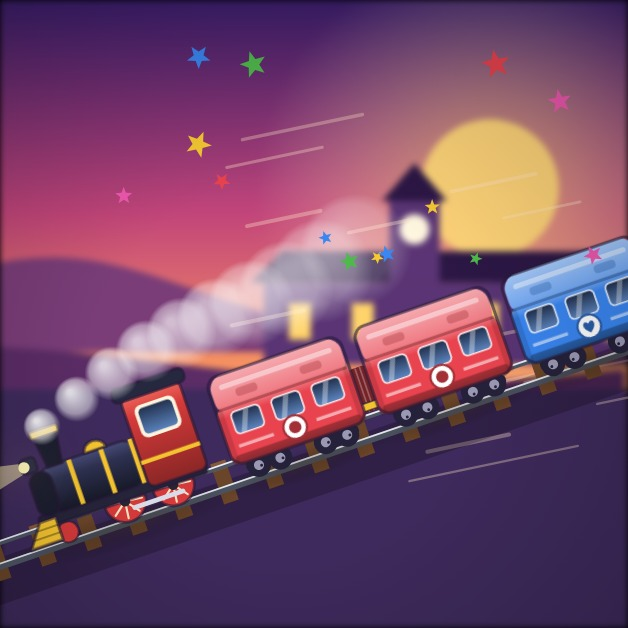
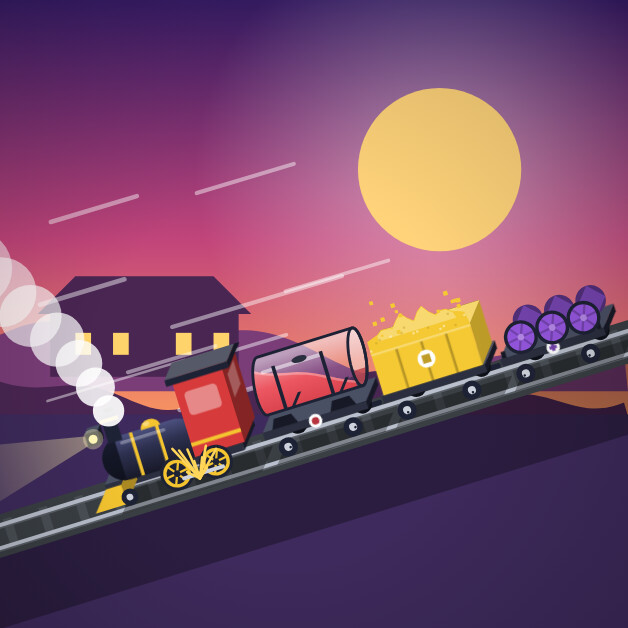
Thumb v2 com as pecas quase 3D e build 1.1.0
- tools/thumb.html: locomotiva arrancando em diagonal com tanque de liquido
  jogado para tras, areia voando e barris; por do sol (opcao b) para
  contrastar com o menta da Poki; 1256 e 628 em PNG e JPG
- prints da build nos tamanhos de iframe da Poki

Claude-Session: https://claude.ai/code/session_011UVCiVifh6VhRQPdrHgR26

diff --git a/tools/thumb.html b/tools/thumb.html
@@ -3,12 +3,13 @@
 <style>html,body{margin:0;overflow:hidden;background:#000}canvas{display:block;width:100vw;height:100vh}</style></head>
 <body><canvas id="c"></canvas>
 <script type="module">
-// Thumb da Poki desenhada com as pecas do proprio jogo.
-// Regras (developers.poki.com/guide/game-thumbnail, anotadas no planet.io):
-// 1:1, sangrada, sem texto, um objeto principal, sugerir movimento,
-// contraste com o fundo #83FFE7 do site. ?opcao=a|b|c  (tamanho = janela)
-import { desenharVagao, desenharLoco, desenharSanfona, desenharSombra, pontaChamine, PINTURAS, caminhoRet } from '../src/render/pecas.js';
-import { TEMAS, misturar } from '../src/render/tema.js';
+// Thumb da Poki desenhada com as pecas do proprio jogo (quase 3D, cargas com
+// fisica congelada no meio do arranque). Regras (developers.poki.com/guide/
+// game-thumbnail): 1:1, sangrada, sem texto, um objeto principal, sugerir
+// movimento, contraste com o fundo #83FFE7 do site. ?opcao=a|b|c (tamanho = janela)
+import { desenharVagao, desenharLoco, desenharSanfona, desenharEngate, desenharSombra, PINTURAS, caminhoRet } from '../src/render/pecas.js';
+import { TEMAS } from '../src/render/tema.js';
+import { criarCarga } from '../src/render/fisica.js';
 import { criarRng } from '../src/core/rng.js';
 
 const q = new URLSearchParams(location.search);
@@ -19,120 +20,96 @@ cv.width = S; cv.height = S;
 const ctx = cv.getContext('2d');
 const r = criarRng(42);
 const CEUS = {
-  a: { ceu: ['#4FA9EE', '#9AD6FA', '#DDF2FB'], morro: ['#9ED39A', '#74BE6C'], chao: '#6FB85B', tema: TEMAS.dia, sol: 'rgba(255,250,215,0.95)', predio: '#F3E7D3', telhado: '#C9533B', janela: '#4F72A8' },
-  b: { ceu: ['#3B1E6E', '#C2457A', '#FF9E5E'], morro: ['#7A3D78', '#5B2C66'], chao: '#3E2A5C', tema: TEMAS.dia, sol: 'rgba(255,214,120,0.95)', predio: '#5A3474', telhado: '#2C1745', janela: '#FFD36B' },
-  c: { ceu: ['#090B2A', '#22195A', '#4A2C7A'], morro: ['#261F55', '#1A163F'], chao: '#161D3A', tema: TEMAS.noite, sol: 'rgba(255,244,214,0.95)', predio: '#3E3870', telhado: '#5A2471', janela: '#FFD36B' },
+  a: { ceu: ['#4C9FE6', '#8FCBF2', '#DCEFF8'], morros: ['#A9D9AE', '#6DB873'], chao: '#79B86A', tema: TEMAS.campina, sol: '#FFE68A' },
+  b: { ceu: ['#3B1E6E', '#C2457A', '#FF9E5E'], morros: ['#7A3D78', '#4A2653'], chao: '#3E2A5C', tema: TEMAS.campina, sol: '#FFD37A' },
+  c: { ceu: ['#120F33', '#2B1E5C', '#5B3B7C'], morros: ['#352C62', '#221C48'], chao: '#1E2446', tema: TEMAS.festa, sol: '#FFF1C4' },
 };
 const K = CEUS[opcao];
+const tema = K.tema;
 
-// ---- fundo (desfocado: sensacao de velocidade)
-const fundo = document.createElement('canvas');
-fundo.width = S; fundo.height = S;
-const g = fundo.getContext('2d');
-let gr = g.createLinearGradient(0, 0, 0, S * 0.62);
+// ---- ceu, astro, morros
+let gr = ctx.createLinearGradient(0, 0, 0, S * 0.7);
 gr.addColorStop(0, K.ceu[0]); gr.addColorStop(0.55, K.ceu[1]); gr.addColorStop(1, K.ceu[2]);
-g.fillStyle = gr; g.fillRect(0, 0, S, S);
-// sol ou lua
-const sx = S * 0.78, sy = S * 0.3, sr = S * 0.11;
-const halo = g.createRadialGradient(sx, sy, sr * 0.5, sx, sy, sr * 3.4);
-halo.addColorStop(0, K.sol.replace('0.95', '0.55')); halo.addColorStop(1, 'rgba(255,240,200,0)');
-g.fillStyle = halo; g.fillRect(0, 0, S, S);
-g.fillStyle = K.sol; g.beginPath(); g.arc(sx, sy, sr, 0, Math.PI * 2); g.fill();
-if (opcao === 'c') {
-  for (let i = 0; i < 160; i++) { g.globalAlpha = 0.3 + r() * 0.7; g.fillStyle = '#fff'; const s = r() < 0.1 ? 3 : 1.6; g.fillRect(r() * S, r() * S * 0.55, s, s); }
-  g.globalAlpha = 1;
+ctx.fillStyle = gr; ctx.fillRect(0, 0, S, S);
+if (opcao === 'c') { for (let i = 0; i < 140; i++) { ctx.globalAlpha = 0.3 + r() * 0.7; ctx.fillStyle = '#fff'; const s = r() < 0.1 ? 3 : 1.6; ctx.fillRect(r() * S, r() * S * 0.5, s, s); } ctx.globalAlpha = 1; }
+const sx = S * 0.7, sy = S * 0.27, sr = S * 0.13;
+const halo = ctx.createRadialGradient(sx, sy, sr, sx, sy, sr * 3);
+halo.addColorStop(0, 'rgba(255,255,255,0.3)'); halo.addColorStop(1, 'rgba(255,255,255,0)');
+ctx.fillStyle = halo; ctx.fillRect(0, 0, S, S);
+ctx.fillStyle = K.sol; ctx.beginPath(); ctx.arc(sx, sy, sr, 0, Math.PI * 2); ctx.fill();
+function morros(y0, cor, alt, fase, freq) {
+  ctx.fillStyle = cor; ctx.beginPath(); ctx.moveTo(0, y0 + 2);
+  for (let x = 0; x <= S; x += 6) { const t = x / S; ctx.lineTo(x, y0 - alt * (0.55 + 0.3 * Math.sin(t * Math.PI * freq + fase) + 0.15 * Math.sin(t * Math.PI * freq * 2.7 + fase * 2))); }
+  ctx.lineTo(S, y0 + 2); ctx.closePath(); ctx.fill();
 }
-if (opcao === 'a') {
-  g.fillStyle = '#fff';
-  for (const [x, y, s] of [[0.18, 0.16, 0.07], [0.5, 0.1, 0.05], [0.9, 0.5, 0.06]]) {
-    for (const [dx, dy, rr] of [[-0.9, 0.1, 0.55], [-0.3, -0.25, 0.75], [0.45, -0.05, 0.62], [1, 0.2, 0.45]]) { g.beginPath(); g.arc((x + dx * s) * S, (y + dy * s) * S, rr * s * S, 0, Math.PI * 2); g.fill(); }
-  }
-}
-// estacao ao fundo (silhueta com relogio)
-const by = S * 0.56;
-g.fillStyle = K.morro[0];
-g.beginPath(); g.moveTo(0, by);
-for (let x = 0; x <= S; x += 8) g.lineTo(x, by - S * (0.1 + 0.05 * Math.sin(x / S * 7 + 1)));
-g.lineTo(S, by); g.closePath(); g.fill();
-const ex0 = S * 0.42, ex1 = S * 1.05, ey = by + S * 0.02, eh = S * 0.13;
-g.fillStyle = K.predio; g.fillRect(ex0, ey - eh, ex1 - ex0, eh);
-g.fillStyle = K.telhado;
-g.beginPath(); g.moveTo(ex0 - S * 0.02, ey - eh); g.lineTo(ex0 + S * 0.03, ey - eh - S * 0.05); g.lineTo(ex1, ey - eh - S * 0.05); g.lineTo(ex1, ey - eh); g.closePath(); g.fill();
-const tx = S * 0.66, tw = S * 0.08;
-g.fillStyle = K.predio; g.fillRect(tx - tw / 2, ey - eh - S * 0.13, tw, S * 0.13);
-g.fillStyle = K.telhado;
-g.beginPath(); g.moveTo(tx - tw * 0.65, ey - eh - S * 0.13); g.lineTo(tx, ey - eh - S * 0.19); g.lineTo(tx + tw * 0.65, ey - eh - S * 0.13); g.closePath(); g.fill();
-g.fillStyle = '#FFF6E0'; g.beginPath(); g.arc(tx, ey - eh - S * 0.085, tw * 0.3, 0, Math.PI * 2); g.fill();
-g.fillStyle = K.janela;
-for (let i = 0; i < 6; i++) { const jx = ex0 + S * 0.04 + i * S * 0.1; if (Math.abs(jx - tx) < tw) continue; g.fillRect(jx, ey - eh * 0.75, S * 0.035, eh * 0.45); }
-g.fillStyle = K.morro[1];
-g.beginPath(); g.moveTo(0, S); g.lineTo(0, by + S * 0.02);
-for (let x = 0; x <= S; x += 8) g.lineTo(x, by + S * 0.02 - S * 0.03 * Math.sin(x / S * 4 + 2));
-g.lineTo(S, S); g.closePath(); g.fill();
-g.fillStyle = K.chao; g.fillRect(0, S * 0.62, S, S);
-ctx.filter = 'blur(' + Math.round(S * 0.004) + 'px)';
-ctx.drawImage(fundo, 0, 0);
-ctx.filter = 'none';
+morros(S * 0.62, K.morros[0], S * 0.12, 0.3, 2.0);
+// estacao em silhueta no morro de tras
+ctx.fillStyle = K.morros[1];
+ctx.fillRect(S * 0.08, S * 0.5, S * 0.3, S * 0.1);
+ctx.beginPath(); ctx.moveTo(S * 0.06, S * 0.5); ctx.lineTo(S * 0.12, S * 0.44); ctx.lineTo(S * 0.34, S * 0.44); ctx.lineTo(S * 0.4, S * 0.5); ctx.closePath(); ctx.fill();
+ctx.fillStyle = opcao === 'a' ? '#F3EBDD' : '#FFD36B';
+for (const q of [0.12, 0.18, 0.28, 0.34]) ctx.fillRect(S * q, S * 0.53, S * 0.025, S * 0.035);
+morros(S * 0.66, K.morros[1], S * 0.07, 1.9, 3.2);
+ctx.fillStyle = K.chao; ctx.fillRect(0, S * 0.66, S, S);
 
 // ---- linhas de velocidade
-ctx.strokeStyle = opcao === 'a' ? 'rgba(255,255,255,0.55)' : 'rgba(255,230,200,0.35)';
+ctx.strokeStyle = 'rgba(255,255,255,0.45)';
 ctx.lineCap = 'round';
-for (let i = 0; i < 16; i++) {
-  const y = S * (0.2 + r() * 0.6), x = S * (0.35 + r() * 0.7), w = S * (0.08 + r() * 0.2);
-  ctx.lineWidth = S * (0.003 + r() * 0.004);
-  ctx.beginPath(); ctx.moveTo(x, y); ctx.lineTo(x + w, y - w * 0.21); ctx.stroke();
+for (let i = 0; i < 9; i++) {
+  const y = S * (0.22 + r() * 0.5), x = S * (0.05 + r() * 0.5), w = S * (0.1 + r() * 0.2);
+  ctx.lineWidth = S * (0.004 + r() * 0.004);
+  ctx.beginPath(); ctx.moveTo(x, y); ctx.lineTo(x + w, y - w * 0.3); ctx.stroke();
 }
 
-// ---- o trem, em diagonal, saindo da tela pela direita
-const ang = -0.33;
-const L = S * 0.225;
+// ---- o trem em diagonal, arrancando para a direita (subindo)
+const ang = -0.3;
+const L = S * 0.18;
 const P = L * 1.1;
-const x0 = S * 0.21, y0 = S * 0.83;
-const tema = K.tema;
-const cores = [0, 0, 5, 5, 2, 2, 3];
+const x0 = S * 0.29, y0 = S * 0.78;
 ctx.save();
 ctx.translate(x0, y0);
 ctx.rotate(ang);
-// trilhos e dormentes
-ctx.fillStyle = 'rgba(0,0,0,0.22)';
-ctx.fillRect(-S, -L * 0.06, S * 3, L * 0.32);
-for (let x = -S; x < S * 2; x += L * 0.34) { ctx.fillStyle = '#6B4529'; ctx.fillRect(x, -L * 0.2, L * 0.11, L * 0.3); ctx.fillStyle = '#87593A'; ctx.fillRect(x, -L * 0.2, L * 0.11, L * 0.06); }
-for (const [yy, lw] of [[-L * 0.16, 0.035], [0, 0.05]]) { ctx.fillStyle = '#4E5563'; ctx.fillRect(-S, yy - L * lw / 2, S * 3, L * lw); ctx.fillStyle = '#E8ECF2'; ctx.fillRect(-S, yy - L * lw / 2, S * 3, L * 0.013); }
-const xs = [];
-let x = 1.32 * L / 2 + L * 0.1 + P / 2;
-for (let i = 0; i < cores.length; i++) { xs.push(x); x += P; }
+// placa do patio e trilho
+ctx.fillStyle = 'rgba(0,0,0,0.3)';
+ctx.fillRect(-S, -L * 0.2, S * 3, L * 0.9);
+ctx.fillStyle = '#3A3F44';
+caminhoRet(ctx, -S, -L * 0.27, S * 3, L * 0.37, L * 0.06); ctx.fill();
+ctx.fillStyle = '#4A5056';
+for (let x = -S; x < S * 2; x += L * 0.33) ctx.fillRect(x, -L * 0.22, L * 0.08, L * 0.27);
+for (const yy of [-L * 0.16 - L * 0.035, 0]) { ctx.fillStyle = '#5A5F66'; ctx.fillRect(-S, yy + L * 0.02, S * 3, L * 0.03); ctx.fillStyle = '#B9BFCC'; ctx.fillRect(-S, yy, S * 3, L * 0.035); }
+const cores = [0, 2, 6];
+const xs = cores.map((c, i) => 1.32 * L / 2 + L * 0.1 + P / 2 + i * P);
 desenharSombra(ctx, 0, 0, L * 1.3, 1, tema);
 xs.forEach((xx) => desenharSombra(ctx, xx, 0, L, 1, tema));
-for (let i = 0; i + 1 < cores.length; i++) if (cores[i] === cores[i + 1]) desenharSanfona(ctx, xs[i] + L / 2, xs[i + 1] - L / 2, 0, L, cores[i], tema);
-xs.forEach((xx, i) => desenharVagao(ctx, xx, 0, cores[i], L, tema, 1, { roda: 0.4 + i }));
+for (let i = 0; i + 1 < cores.length; i++) desenharEngate(ctx, xs[i] + L / 2, xs[i + 1] - L / 2, 0, L);
+xs.forEach((xx, i) => {
+  const f = criarCarga(cores[i]);
+  // arranque: liquido jogado para tras, areia saltando, barris rolando
+  f.tilt = 0.42; f.tiltV = 1.5; f.jolt = 0.9; f.rot = 0.9; f.t = 2.1;
+  desenharVagao(ctx, xx, 0, cores[i], L, tema, 1, { roda: 0.4 + i, fis: f });
+});
 desenharLoco(ctx, 0, 0, L, tema, 1, { aceso: true, roda: 0.9, pintura: PINTURAS[0] });
-const pc = pontaChamine(0, 0, L);
+// faiscas nas rodas (patinando)
+ctx.strokeStyle = '#FFD65A'; ctx.lineWidth = S * 0.004; ctx.lineCap = 'round';
+for (let i = 0; i < 10; i++) { const a = -Math.PI * (0.2 + r() * 0.6); const d = L * (0.1 + r() * 0.3); ctx.beginPath(); ctx.moveTo(L * 0.18, -L * 0.05); ctx.lineTo(L * 0.18 + Math.cos(a) * d, -L * 0.05 + Math.sin(a) * d); ctx.stroke(); }
+// graos de areia voando do segundo vagao
+ctx.fillStyle = '#F5C933';
+for (let i = 0; i < 16; i++) { const px = xs[1] + (r() - 0.5) * L * 0.9, py = -L * 0.75 - r() * L * 0.35; const s = L * (0.02 + r() * 0.02); ctx.fillRect(px, py, s, s); }
 ctx.restore();
 
-// ---- fumaca: rastro grosso subindo para tras
-const cx = x0 + Math.cos(ang) * pc.x - Math.sin(ang) * pc.y;
-const cy = y0 + Math.sin(ang) * pc.x + Math.cos(ang) * pc.y;
+// ---- fumaca: circulos chapados subindo para tras (esquerda)
+const cx = x0 + Math.cos(ang) * (-0.415 * L) - Math.sin(ang) * (-0.86 * L);
+const cy = y0 + Math.sin(ang) * (-0.415 * L) + Math.cos(ang) * (-0.86 * L);
 for (let i = 9; i >= 0; i--) {
   const t = i / 9;
-  const px = cx + t * S * 0.5, py = cy - t * S * 0.3 - Math.sin(t * 5) * S * 0.02;
-  const rr = S * (0.03 + t * 0.06);
-  const gg = ctx.createRadialGradient(px - rr * 0.3, py - rr * 0.3, rr * 0.1, px, py, rr);
-  const a = 0.9 - t * 0.55;
-  gg.addColorStop(0, `rgba(255,255,255,${a})`); gg.addColorStop(0.7, `rgba(255,255,255,${a * 0.6})`); gg.addColorStop(1, 'rgba(255,255,255,0)');
-  ctx.fillStyle = gg; ctx.beginPath(); ctx.arc(px, py, rr, 0, Math.PI * 2); ctx.fill();
-}
-// faiscas/estrelas de festa
-const corEst = ['#F5C933', '#EF58AF', '#3A86F2', '#4FBA4C', '#E9434F'];
-for (let i = 0; i < 14; i++) {
-  const px = S * (0.05 + r() * 0.9), py = S * (0.05 + r() * 0.4), rr = S * (0.008 + r() * 0.012);
-  ctx.save(); ctx.translate(px, py); ctx.rotate(r() * 6); ctx.fillStyle = corEst[i % corEst.length];
-  ctx.beginPath(); for (let k = 0; k < 10; k++) { const a2 = -Math.PI / 2 + k * Math.PI / 5; const q = k % 2 ? rr * 0.5 : rr * 1.2; ctx.lineTo(Math.cos(a2) * q, Math.sin(a2) * q); } ctx.closePath(); ctx.fill();
-  ctx.restore();
+  const px = cx - t * S * 0.3 + Math.sin(t * 6) * S * 0.02, py = cy - t * S * 0.34;
+  const rr = S * (0.025 + t * 0.055);
+  ctx.fillStyle = `rgba(255,255,255,${0.92 - t * 0.6})`;
+  ctx.beginPath(); ctx.arc(px, py, rr, 0, Math.PI * 2); ctx.fill();
 }
 // vinheta suave para segurar o olhar no trem
 const vg = ctx.createRadialGradient(S * 0.45, S * 0.6, S * 0.3, S * 0.5, S * 0.55, S * 0.85);
 vg.addColorStop(0, 'rgba(0,0,0,0)'); vg.addColorStop(1, 'rgba(0,0,0,0.28)');
 ctx.fillStyle = vg; ctx.fillRect(0, 0, S, S);
 document.title = 'pronto';
-void caminhoRet; void misturar;
 </script></body></html>
